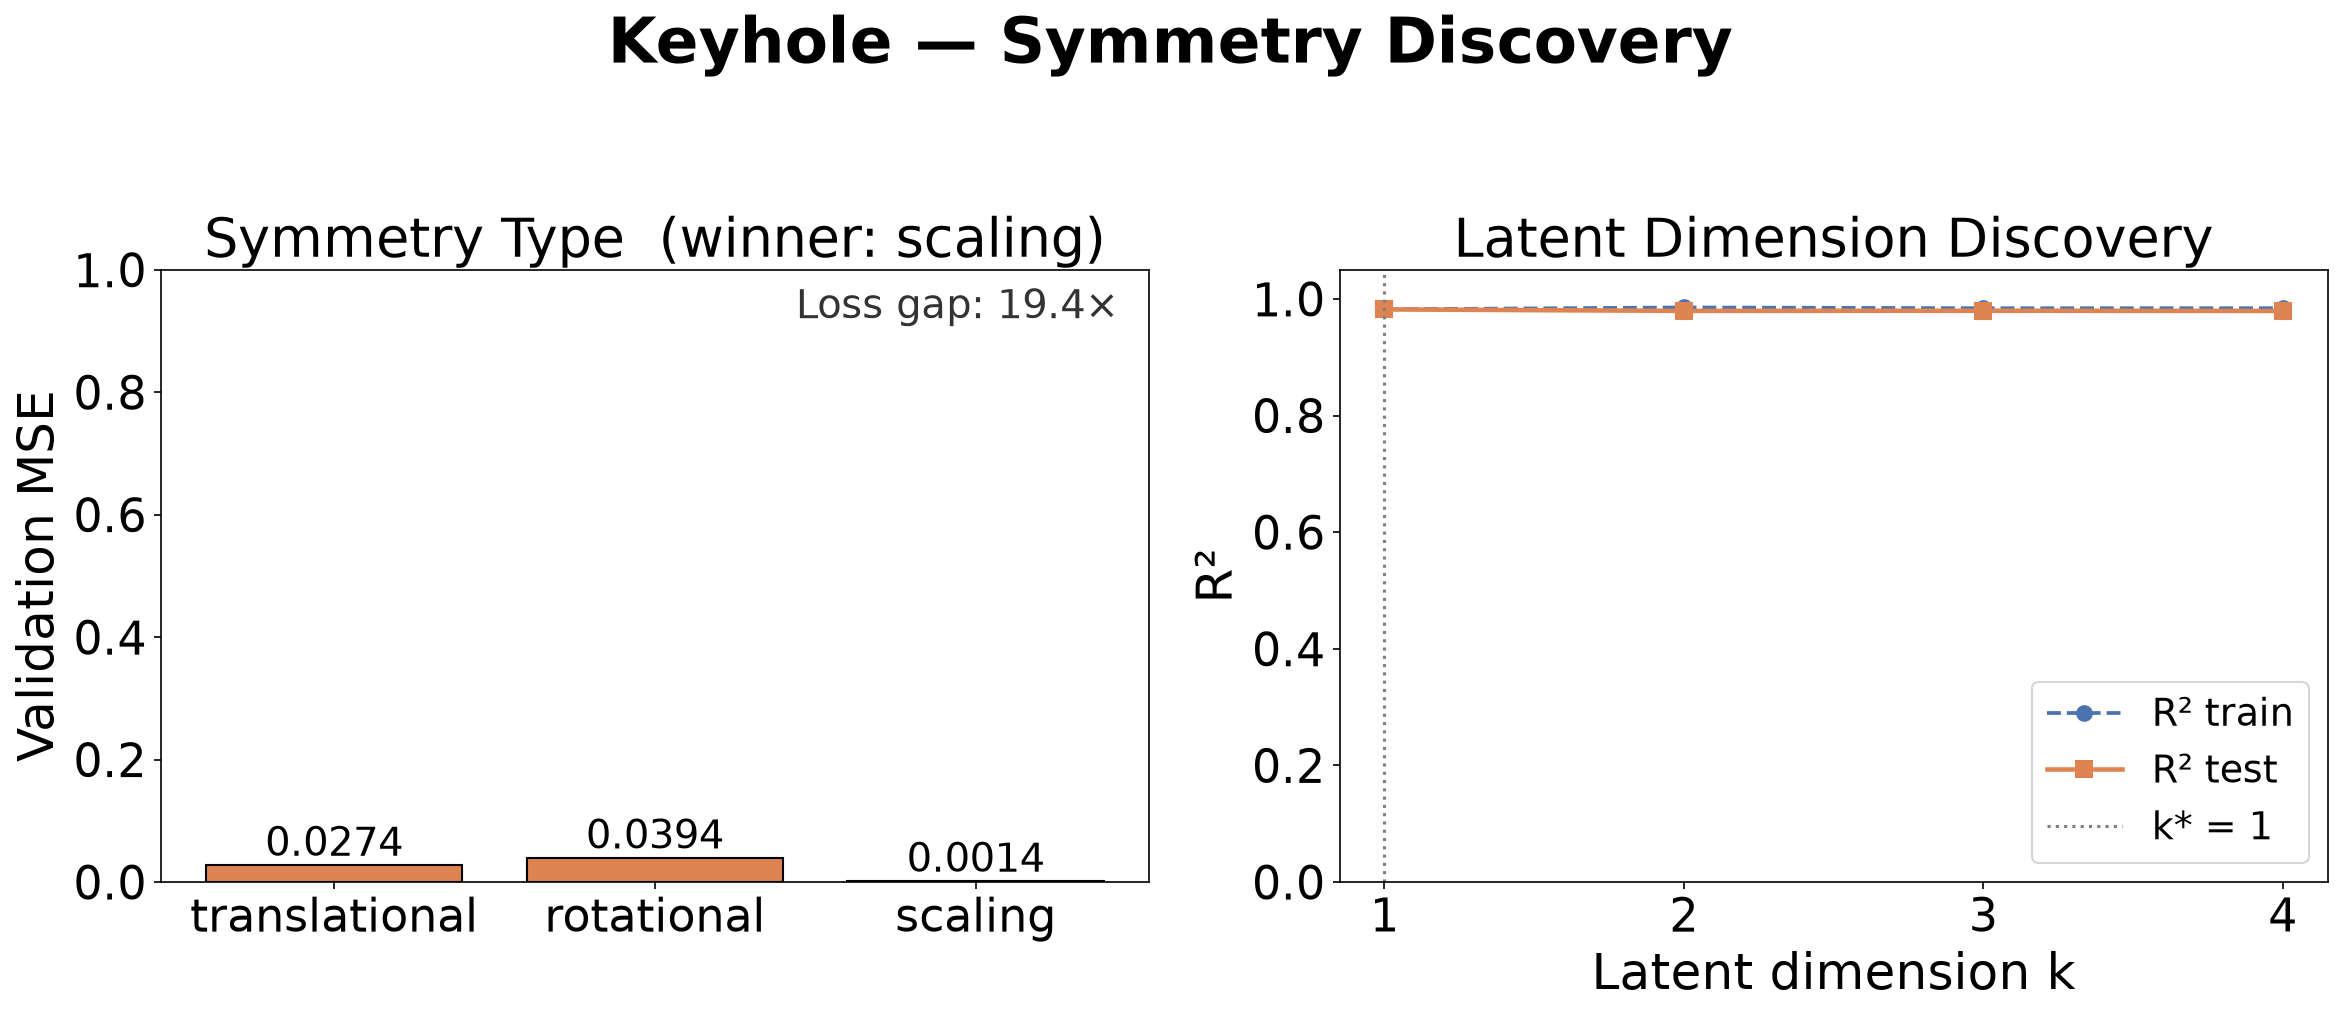
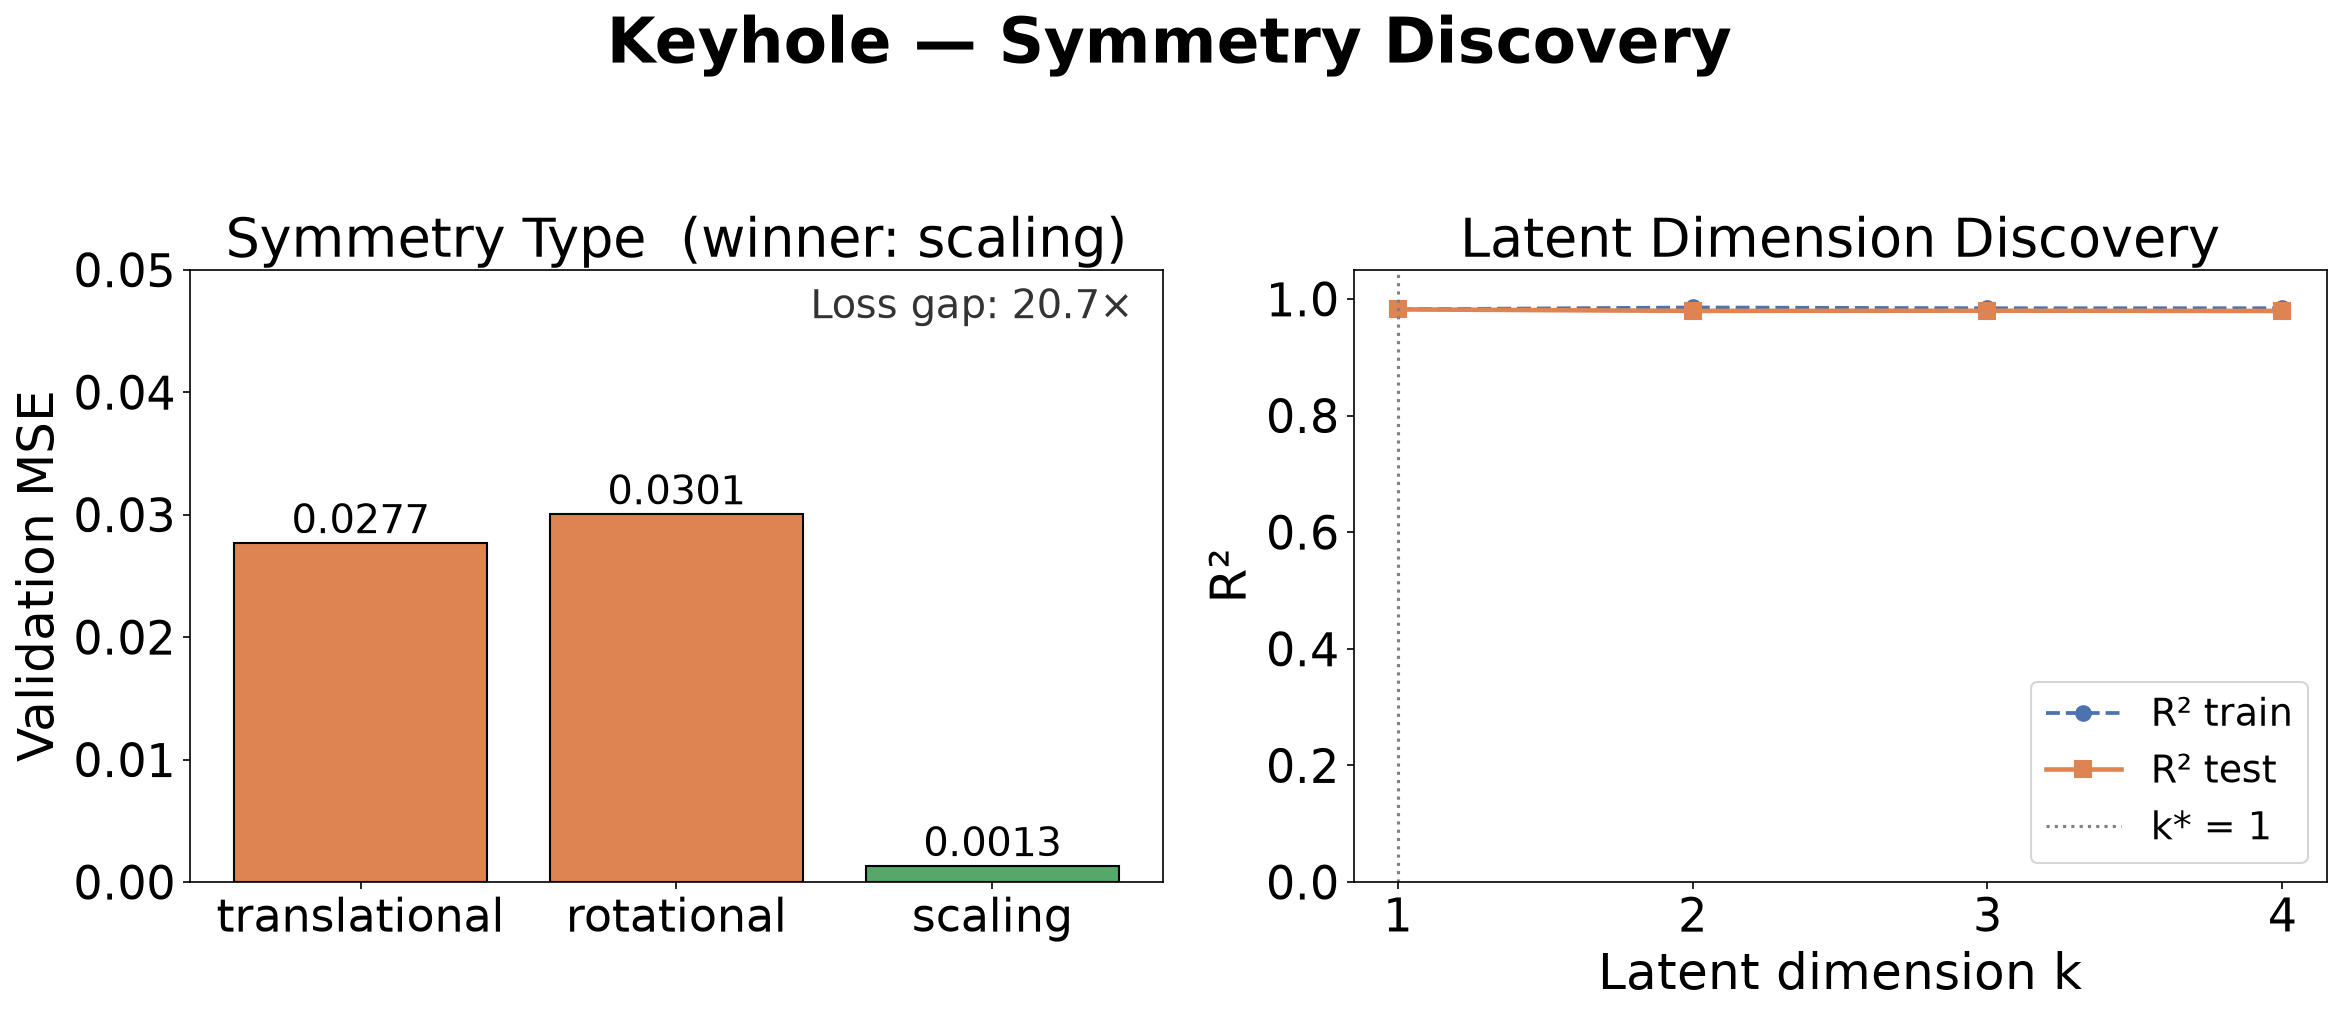
Keyhole symmetry-discovery figure: tighten Symmetry-Type ylim to 0.05
All three MSE bars sit under 0.03 (scaling ~0.001), so the previous
(0, 1) ylim rendered them as invisible slivers. Drop the ymax to 0.05
so the winner's margin over translational and rotational is legible.

Only touches keyhole's plot_results; the LBM and LPBF symmetry-type
panels already use max(losses) * 1.5 auto-scaling.

Claude-Session: https://claude.ai/code/session_01MfazmcSa3C3AC7Ey743Vmg

diff --git a/projects/20260912_Stage1_Prokash/Examples/keyhole_symmetry/discover_symmetry.py b/projects/20260912_Stage1_Prokash/Examples/keyhole_symmetry/discover_symmetry.py
@@ -779,7 +779,7 @@ def plot_results(X, y, results, output_dir):
     losses = [sym_res["losses"][t] for t in types]
     colors = ["#55A868" if t == sym_res["symmetry_type"] else "#DD8452" for t in types]
     bars = ax.bar(types, losses, color=colors, edgecolor="black", lw=1)
-    ax.set_ylim(0, 1)
+    ax.set_ylim(0, 0.05)
     ax.set_ylabel("Validation MSE")
     ax.set_title(f"Symmetry Type  (winner: {sym_res['symmetry_type']})")
     for bar, loss in zip(bars, losses):
